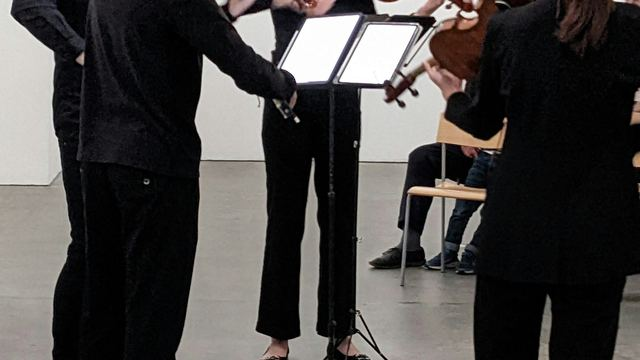
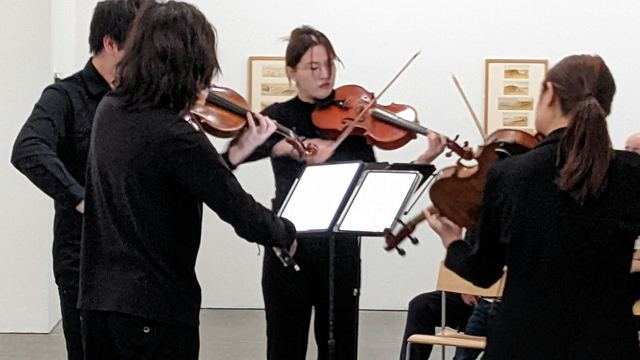
Share pictures: a tall photo is shared as a wide cut of itself
Feeds draw a link's picture as a wide strip around its middle, which took
the heads off the portraits that 20 pages share. The deploy now makes a
1200x630 cut of each tall share photo at img/share/, around the photo's
focus point, else around what sharp's attention finds, and the page shares
that with its size and the photo's own description.

Focus points for three photos whose cut missed the subject (the flamenco
guitarist by the window, the string quartet, the office party), and the
blog list's thumbnails for the two posts among them remade to match.

diff --git a/site/src/build/main.jsx b/site/src/build/main.jsx
@@ -25,7 +25,7 @@ import { llms, rss, sitemap, videoSitemap } from "./feeds.js";
 import { fingerprint, stylesheet, stylesOf } from "./styles.js";
 import { esc, pyjson } from "../lib/util.js";
 import { LAYOUT_FILES } from "../lib/layouts.js";
-import { repoPath, widthsFor, YT_WIDTHS } from "../lib/pictures.js";
+import { repoPath, SHARE, sharePath, widthsFor, YT_WIDTHS } from "../lib/pictures.js";
 import { imageDims, makeImages } from "./images.js";
 
 const REPO = process.cwd();
@@ -97,9 +97,11 @@ const Section = Item;
 function picturesFor(dims) {
   const used = new Set();
   const yt = new Set();
+  const share = new Map();
   return {
     used,
     yt,
+    share,
     of(src) {
       const p = repoPath(src);
       const y = p && /^img\/yt\/([\w-]{11})\.jpg$/.exec(p);
@@ -212,13 +214,22 @@ export function buildSite(c, out) {
   // its size; the description is the one the page itself gives that picture.
   // A local file's size comes from the picture sizes the build already reads;
   // YouTube's hqdefault is always 480x360.
+  // A photo taller than wide is shared as a wide cut of itself (2026-11-02),
+  // made by the deploy around the photo's focus point (content/photo-focus.json)
+  // or, with none, around what draws the eye. It keeps the photo's description.
+  const focus = c.photoFocus || {};
   const shareImageMeta = (url, body, given = "") => {
     if (!url) return {};
     const local = url.startsWith(m.SITE_URL + "/") ? url.slice(m.SITE_URL.length + 1) : null;
-    let w, h;
+    let w, h, shared;
     const d = local && c.images && c.images.get(local);
     if (d) ({ w, h } = d);
     else if (/^https:\/\/i\.ytimg\.com\/vi\/[\w-]{11}\/hqdefault\.jpg$/.test(url)) [w, h] = [480, 360];
+    if (d && pictures && h > w) {
+      pictures.share.set(local, focus[local] || null);
+      shared = `${m.SITE_URL}/${sharePath(local)}`;
+      ({ w, h } = SHARE);
+    }
     let alt = given || (url === OG_DEFAULT ? OG_DEFAULT_ALT : "");
     // A video's poster has alt="" inside its play button, whose label names
     // the video; that label describes the picture.
@@ -236,7 +247,7 @@ export function buildSite(c, out) {
       // Undo the page's escaping; head() escapes it again.
       alt = alt.replace(/&(amp|quot|lt|gt|#x27|#39);/g, (_, e) => ({ amp: "&", quot: '"', lt: "<", gt: ">", "#x27": "'", "#39": "'" })[e]);
     }
-    return { w, h, alt };
+    return { url: shared || url, w, h, alt };
   };
 
   const page = ({ output, prefix, nav, trail, indexed, content, ctxExtra, title, description, robots, ogType, ogImage, ogAlt, headExtra, schema, first }) => {
@@ -251,7 +262,7 @@ export function buildSite(c, out) {
     if (body.includes('<button type="button" class="yt"')) body += "\n" + YT_SCRIPT;
     const canonical = m.canonicalFor(output);
     const ogMeta = shareImageMeta(ogImage, body, ogAlt);
-    const h = head({ site: headSite, title, description, robots, canonical, prefix, ogType, ogImage, ogMeta, headExtra, schema: schema + (trail ? S.breadcrumbSchema(trail) : "") });
+    const h = head({ site: headSite, title, description, robots, canonical, prefix, ogType, ogImage: ogMeta.url || ogImage, ogMeta, headExtra, schema: schema + (trail ? S.breadcrumbSchema(trail) : "") });
     write(output, photoFocus(m, document(h, body)));
   };
 
@@ -415,7 +426,7 @@ if (flag("--render-sections")) {
   const r = buildSite(c, out);
   console.log(`Built ${r.files.length} files into ${out}`);
   if (flag("--images")) {
-    const { made } = await makeImages({ repo: REPO, out, cache: path.resolve(flag("--images")), used: r.pictures.used, yt: r.pictures.yt, dims: c.images });
+    const { made } = await makeImages({ repo: REPO, out, cache: path.resolve(flag("--images")), used: r.pictures.used, yt: r.pictures.yt, share: r.pictures.share, dims: c.images });
     if (process.env.GITHUB_OUTPUT) fs.appendFileSync(process.env.GITHUB_OUTPUT, `pictures_made=${made}\n`);
   }
 }

diff --git a/site/src/build/images.js b/site/src/build/images.js
@@ -5,6 +5,7 @@
    - every JPEG under img/ and media/ recompressed, where that saves a tenth
    - each YouTube video's own picture, the largest YouTube has, at
      img/yt/<id>.jpg and its copies
+   - a wide share picture for each tall photo a page shares (img/share/)
    The cache folder keeps what was made, by the source file's hash, so a
    deploy only makes what is new, and loses what nothing uses any more. */
 import crypto from "node:crypto";
@@ -12,7 +13,7 @@ import fs from "node:fs";
 import os from "node:os";
 import path from "node:path";
 import sharp from "sharp";
-import { FORMAT, variantPath, widthsFor, YT_WIDTHS, ytPath } from "../lib/pictures.js";
+import { FORMAT, SHARE, sharePath, variantPath, widthsFor, YT_WIDTHS, ytPath } from "../lib/pictures.js";
 
 // Bump to make every copy again.
 const VERSION = "1";
@@ -70,7 +71,7 @@ async function ytFetch(id) {
   return null;
 }
 
-export async function makeImages({ repo, out, cache, used, yt, dims, log = console.log }) {
+export async function makeImages({ repo, out, cache, used, yt, share = new Map(), dims, log = console.log }) {
   fs.mkdirSync(cache, { recursive: true });
   const kept = new Set();
   const keptFiles = new Set();
@@ -105,6 +106,25 @@ export async function makeImages({ repo, out, cache, used, yt, dims, log = conso
     for (const w of widthsFor(d.w)) {
       place(cached(key, `${w}.${FORMAT}`, (to) => encode(sharp(buf).autoOrient().resize({ width: w, withoutEnlargement: true }), FORMAT, d.chroma).toFile(to)), variantPath(rel, w));
     }
+  }
+
+  // Tall photos a page shares, cut wide: across the whole width, at the
+  // photo's focus point's height ("x% y%", as CSS object-position places it),
+  // else around what sharp's attention finds.
+  for (const [rel, focus] of [...share].sort()) {
+    const buf = fs.readFileSync(path.join(repo, rel));
+    const key = sha1(VERSION, buf);
+    const y = focus && /^\s*[\d.]+%\s+([\d.]+)%\s*$/.exec(focus);
+    place(
+      cached(key, `share-${y ? y[1] : "auto"}.jpg`, async (to) => {
+        if (!y) return encode(sharp(buf).autoOrient().resize({ width: SHARE.w, height: SHARE.h, fit: "cover", position: sharp.strategy.attention }), "jpeg").toFile(to);
+        const wide = sharp(buf).autoOrient().resize({ width: SHARE.w });
+        const tall = (await wide.clone().toBuffer({ resolveWithObject: true })).info.height;
+        const top = Math.round(((tall - SHARE.h) * Number(y[1])) / 100);
+        return encode(wide.extract({ left: 0, top, width: SHARE.w, height: SHARE.h }), "jpeg").toFile(to);
+      }),
+      sharePath(rel),
+    );
   }
 
   // Every JPEG, recompressed. A copy that doesn't save a tenth isn't used.
@@ -172,6 +192,6 @@ export async function makeImages({ repo, out, cache, used, yt, dims, log = conso
   }
   for (const f of fs.readdirSync(ytSrc)) if (!yt.has(f.replace(/\.jpg$/, ""))) fs.rmSync(path.join(ytSrc, f), { force: true });
 
-  log(`Pictures: ${used.size} shown in ${copies.length} files, ${made} made, ${Math.round(saved / 1024)} KB off ${jpegs.length} JPEGs, ${ids.length} YouTube pictures`);
+  log(`Pictures: ${used.size} shown in ${copies.length} files, ${made} made, ${Math.round(saved / 1024)} KB off ${jpegs.length} JPEGs, ${ids.length} YouTube pictures, ${share.size} share pictures`);
   return { made, files: copies.length };
 }

diff --git a/site/src/lib/pictures.js b/site/src/lib/pictures.js
@@ -12,6 +12,12 @@ export const WIDTHS = [480, 800, 1200, 1600];
 export const MAX_WIDTH = 2400;
 export const FORMAT = "webp";
 
+// A share picture cut wide from a tall photo, made by the deploy:
+// img/acts/a.jpg -> img/share/acts/a.jpg. Feeds draw a link's picture as a
+// wide strip around its middle, which takes the head off a portrait.
+export const SHARE = { w: 1200, h: 630 };
+export const sharePath = (p) => p.replace(/^(?:img|media)\//, "img/share/").replace(/\.(?:jpe?g|png)$/i, ".jpg");
+
 // A YouTube video's own picture, kept by the deploy at img/yt/<id>.jpg.
 export const YT_WIDTHS = [480, 800, 1280];
 export const ytPath = (id) => `img/yt/${id}.jpg`;
